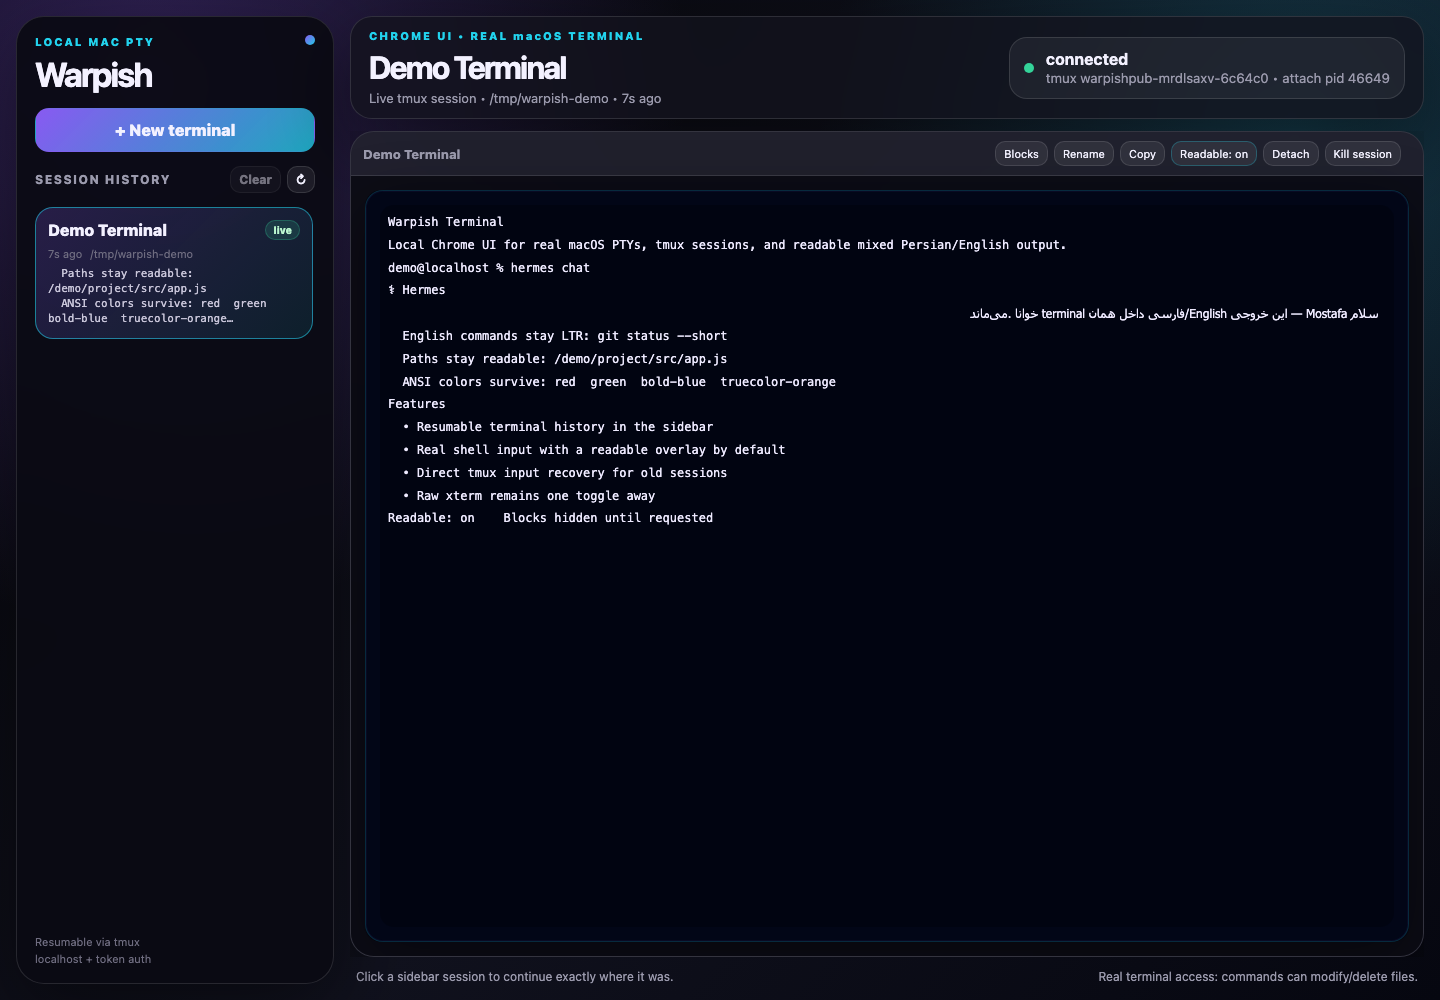
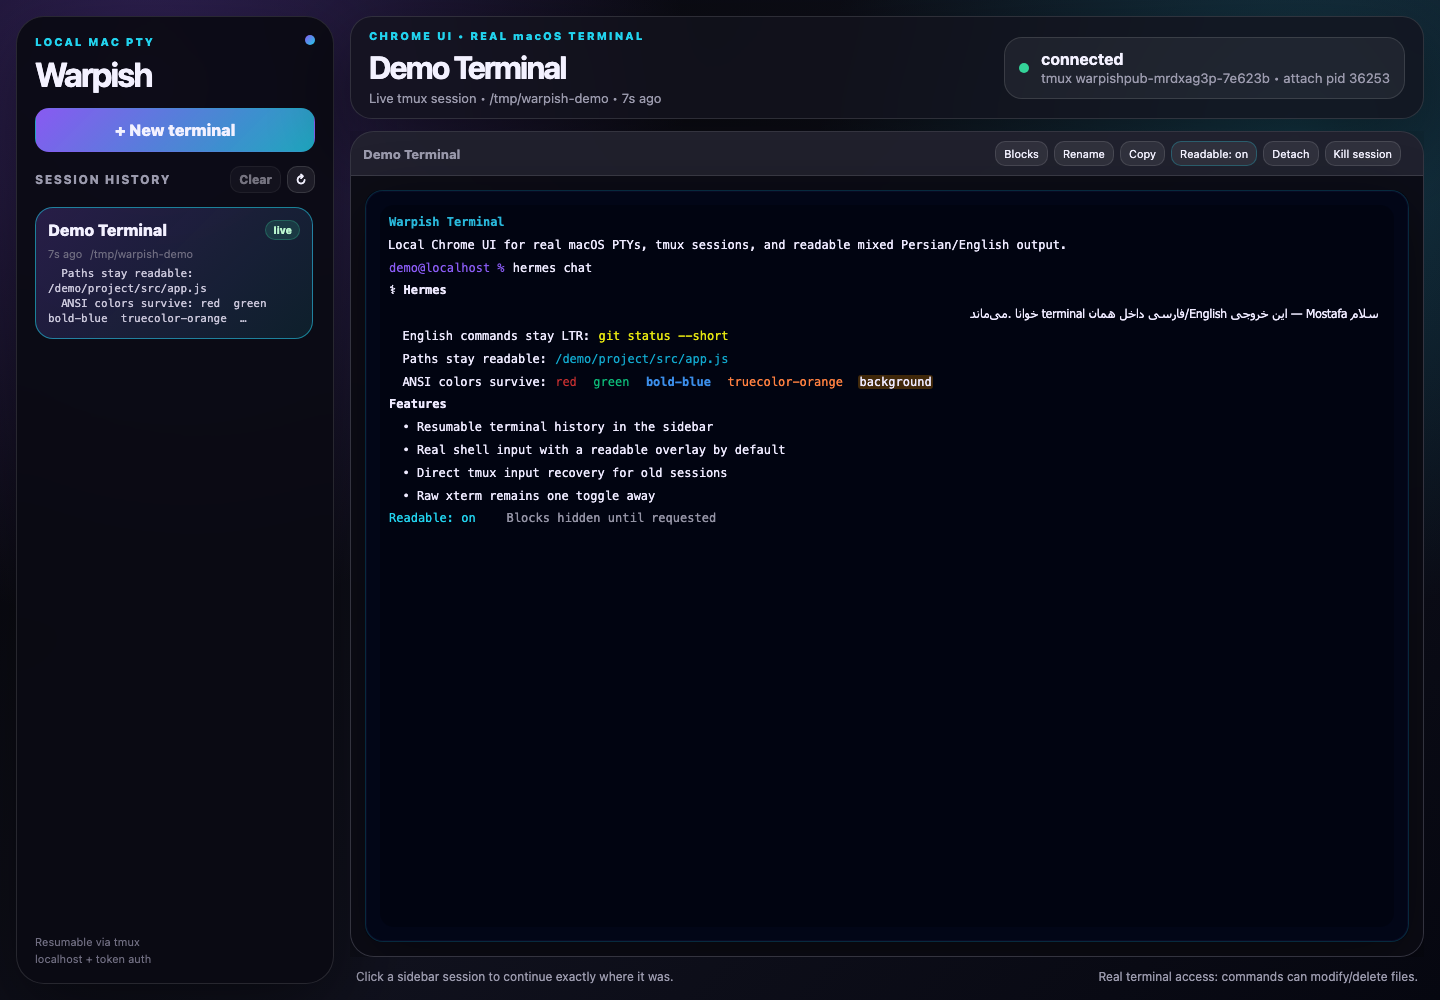
Preserve ANSI colors in captured reader output

diff --git a/public/app.js b/public/app.js
@@ -275,6 +275,118 @@ function applyTextStyle(element, style = {}) {
   if (style.underline) element.style.textDecoration = 'underline';
 }
 
+function cloneTextStyle(style = {}) {
+  return {
+    fg: style.fg || '',
+    bg: style.bg || '',
+    bold: Boolean(style.bold),
+    dim: Boolean(style.dim),
+    italic: Boolean(style.italic),
+    underline: Boolean(style.underline),
+    inverse: Boolean(style.inverse),
+  };
+}
+
+function resetTextStyle(style, scope = 'all') {
+  if (scope === 'all') {
+    style.fg = '';
+    style.bg = '';
+    style.bold = false;
+    style.dim = false;
+    style.italic = false;
+    style.underline = false;
+    style.inverse = false;
+  } else if (scope === 'fg') {
+    style.fg = '';
+  } else if (scope === 'bg') {
+    style.bg = '';
+  }
+  return style;
+}
+
+function ansiRgb(r, g, b) {
+  const clamp = (value) => Math.max(0, Math.min(255, Number(value) || 0));
+  return `rgb(${clamp(r)}, ${clamp(g)}, ${clamp(b)})`;
+}
+
+function applyAnsiSgr(style, rawCodes = '') {
+  const codes = rawCodes === ''
+    ? [0]
+    : rawCodes.split(';').filter((part) => part.length).map((part) => Number(part));
+  if (!codes.length) codes.push(0);
+  for (let index = 0; index < codes.length; index += 1) {
+    const code = Number.isFinite(codes[index]) ? codes[index] : 0;
+    if (code === 0) resetTextStyle(style);
+    else if (code === 1) style.bold = true;
+    else if (code === 2) style.dim = true;
+    else if (code === 3) style.italic = true;
+    else if (code === 4) style.underline = true;
+    else if (code === 7) style.inverse = true;
+    else if (code === 22) { style.bold = false; style.dim = false; }
+    else if (code === 23) style.italic = false;
+    else if (code === 24) style.underline = false;
+    else if (code === 27) style.inverse = false;
+    else if (code === 39) resetTextStyle(style, 'fg');
+    else if (code === 49) resetTextStyle(style, 'bg');
+    else if (code >= 30 && code <= 37) style.fg = xtermPaletteColor(code - 30, style.bold);
+    else if (code >= 90 && code <= 97) style.fg = xtermPaletteColor(code - 90 + 8, style.bold);
+    else if (code >= 40 && code <= 47) style.bg = xtermPaletteColor(code - 40);
+    else if (code >= 100 && code <= 107) style.bg = xtermPaletteColor(code - 100 + 8);
+    else if (code === 38 || code === 48) {
+      const target = code === 38 ? 'fg' : 'bg';
+      const mode = codes[index + 1];
+      if (mode === 2 && codes.length >= index + 5) {
+        style[target] = ansiRgb(codes[index + 2], codes[index + 3], codes[index + 4]);
+        index += 4;
+      } else if (mode === 5 && codes.length >= index + 3) {
+        style[target] = xtermPaletteColor(codes[index + 2], style.bold);
+        index += 2;
+      }
+    }
+  }
+  return style;
+}
+
+function trimStyledEntryEnd(entry) {
+  const text = String(entry?.text || '').trimEnd();
+  const segments = entry?.segments?.length ? sliceStyledSegments(entry.segments, 0, text.length) : [];
+  return { text, segments };
+}
+
+function parseAnsiCaptureEntries(text = '') {
+  const entries = [];
+  let entry = { text: '', segments: [] };
+  const style = resetTextStyle({});
+  const pushEntry = () => {
+    entries.push(trimStyledEntryEnd(entry));
+    entry = { text: '', segments: [] };
+  };
+  const appendText = (value = '') => {
+    if (!value) return;
+    const clean = String(value).replace(/\x1b\[[0-?]*[ -/]*[@-~]/g, '');
+    const parts = clean.split('\n');
+    parts.forEach((part, index) => {
+      if (index > 0) pushEntry();
+      if (!part) return;
+      entry.text += part;
+      mergeStyledSegment(entry.segments, part, cloneTextStyle(style));
+    });
+  };
+  const sgrPattern = /\x1b\[([0-9;]*)m/g;
+  let cursor = 0;
+  let match;
+  while ((match = sgrPattern.exec(String(text))) !== null) {
+    appendText(String(text).slice(cursor, match.index));
+    applyAnsiSgr(style, match[1]);
+    cursor = sgrPattern.lastIndex;
+  }
+  appendText(String(text).slice(cursor));
+  pushEntry();
+  return entries
+    .map(trimStyledEntryEnd)
+    .filter((item) => item.text.trim().length > 0);
+}
+
 function mergeStyledSegment(segments, text, style) {
   if (!text) return;
   const normalizedStyle = hasVisibleTextStyle(style) ? style : null;
@@ -381,10 +493,17 @@ function isTerminalAlternateBuffer() {
 }
 
 function isSparseReadableEntries(entries = []) {
-  if (!entries.length) return true;
-  const nonEmpty = entries.map((entry) => String(entry.text || '').trim()).filter(Boolean);
-  if (!nonEmpty.length) return true;
-  return nonEmpty.length <= 2 && nonEmpty.every((line) => /^(?:<[^>]+>|~|[│╭╰╮╯─\s])+$/u.test(line));
+  const visible = entries.map((entry) => String(entry?.text || '').trim()).filter(Boolean);
+  if (!visible.length) return true;
+  return visible.length <= 2 && visible.every((line) => /^(?:<[^>]+>|~|[│╭╰╮╯─\s]|\[[A-Z]+\])+$/u.test(line));
+}
+
+function entriesHaveVisibleText(entries = []) {
+  return entries.some((entry) => String(entry?.text || '').trim().length > 0);
+}
+
+function entriesHaveVisibleStyle(entries = []) {
+  return entries.some((entry) => Array.isArray(entry?.segments) && entry.segments.some((segment) => hasVisibleTextStyle(segment.style)));
 }
 
 function isBidiReaderNearBottom() {
@@ -492,9 +611,9 @@ function scheduleBidiReaderUpdate({ immediate = false } = {}) {
   bidiReaderUpdateTimer = window.setTimeout(() => requestAnimationFrame(flushBidiReaderUpdate), delay);
 }
 
-async function refreshBidiReaderFromCapture({ keepScroll = false } = {}) {
+async function refreshBidiReaderFromCapture({ keepScroll = false, preferCapture = false } = {}) {
   if (bidiReaderCaptureRefreshPending) {
-    if (lastCapturedReaderEntries.length) renderBidiReader(lastCapturedReaderEntries, { keepScroll });
+    if (preferCapture && lastCapturedReaderEntries.length) renderBidiReader(lastCapturedReaderEntries, { keepScroll });
     return;
   }
   if (!bidiReaderEnabled || !currentSessionId) {
@@ -504,20 +623,32 @@ async function refreshBidiReaderFromCapture({ keepScroll = false } = {}) {
   bidiReaderCaptureRefreshPending = true;
   lastBidiReaderCaptureAt = performance.now();
   try {
-    const payload = await api(`/api/sessions/${currentSessionId}/capture?lines=1200`);
-    const entries = String(payload.text || '')
-      .split('\n')
-      .map((line) => ({ text: line.trimEnd() }))
-      .filter((entry) => entry.text.trim().length > 0)
+    const payload = await api(`/api/sessions/${currentSessionId}/capture?lines=1200&ansi=1`);
+    const captureEntries = parseAnsiCaptureEntries(payload.text || '')
       .slice(-BIDI_READER_MAX_LINES);
-    if (entries.length) lastCapturedReaderEntries = entries;
+    if (captureEntries.length) lastCapturedReaderEntries = captureEntries;
+
     const xtermEntries = getReadableTerminalEntries();
-    const fallbackEntries = lastCapturedReaderEntries.length && isTerminalAlternateBuffer() && isSparseReadableEntries(xtermEntries)
+    const xtermHasText = entriesHaveVisibleText(xtermEntries);
+    const xtermIsSparse = isSparseReadableEntries(xtermEntries);
+    const shouldUseCapture = Boolean(
+      captureEntries.length && (
+        preferCapture
+        || !xtermHasText
+        || (isTerminalAlternateBuffer() && xtermIsSparse)
+      )
+    );
+
+    const renderEntries = shouldUseCapture
+      ? captureEntries
+      : (xtermHasText ? xtermEntries : captureEntries);
+    renderBidiReader(renderEntries, { force: true, keepScroll });
+  } catch {
+    const xtermEntries = getReadableTerminalEntries();
+    const fallbackEntries = lastCapturedReaderEntries.length && (preferCapture || isTerminalAlternateBuffer() && isSparseReadableEntries(xtermEntries))
       ? lastCapturedReaderEntries
       : xtermEntries;
-    renderBidiReader(entries.length ? entries : fallbackEntries, { force: true, keepScroll });
-  } catch {
-    renderBidiReader(lastCapturedReaderEntries.length ? lastCapturedReaderEntries : getReadableTerminalEntries(), { force: true, keepScroll });
+    renderBidiReader(fallbackEntries, { force: true, keepScroll });
   } finally {
     bidiReaderCaptureRefreshPending = false;
   }
@@ -1195,7 +1326,7 @@ terminalEl.addEventListener('wheel', (event) => {
       localStorage.setItem('warpish_readable_terminal_v1', 'on');
       applyBidiMode();
     } else {
-      refreshBidiReaderFromCapture().catch(() => renderBidiReader());
+      refreshBidiReaderFromCapture({ keepScroll: true, preferCapture: true }).catch(() => renderBidiReader());
     }
   }
   event.preventDefault();

diff --git a/server.js b/server.js
@@ -482,10 +482,12 @@ function capturePreview(id, lines = 28) {
   }
 }
 
-function capturePaneText(id, { lines = 600, alternate = false } = {}) {
-  const args = ['capture-pane', '-p', '-J', '-t', id];
-  if (alternate) args.splice(1, 0, '-a');
+function capturePaneText(id, { lines = 600, alternate = false, escape = false } = {}) {
+  const args = ['capture-pane', '-p', '-J'];
+  if (escape) args.push('-e');
+  if (alternate) args.push('-a');
   else args.push('-S', `-${Math.max(20, Math.min(Number(lines) || 600, 5000))}`);
+  args.push('-t', id);
   try {
     return runTmux(args)
       .split('\n')
@@ -806,10 +808,11 @@ app.get('/api/sessions/:id/capture', (req, res) => {
   const { id } = req.params;
   if (!isValidSessionId(id)) return res.status(400).json({ error: 'invalid session id' });
   const lines = clampNumber(req.query.lines, 600, 20, 5000);
-  const normal = capturePaneText(id, { lines });
-  const alternate = capturePaneText(id, { alternate: true });
+  const escape = req.query.ansi === '1' || req.query.escape === '1';
+  const normal = capturePaneText(id, { lines, escape });
+  const alternate = capturePaneText(id, { alternate: true, escape });
   const text = alternate.trim() ? alternate : normal;
-  res.json({ text, normal, alternate, usingAlternate: Boolean(alternate.trim()) });
+  res.json({ text, normal, alternate, usingAlternate: Boolean(alternate.trim()), ansi: escape });
 });
 
 app.patch('/api/sessions/:id', (req, res) => {

diff --git a/scripts/smoke.js b/scripts/smoke.js
@@ -175,6 +175,11 @@ try {
     && appJs.includes('XTERM_COLOR_MODE_PALETTE')
     && appJs.includes('function getLineStyledSegments(line, text)')
     && appJs.includes('function applyTextStyle(element, style = {})')
+    && appJs.includes('function parseAnsiCaptureEntries(text =')
+    && appJs.includes('function applyAnsiSgr(style, rawCodes =')
+    && appJs.includes('capture?lines=1200&ansi=1')
+    && serverJs.includes('escape = req.query.ansi')
+    && serverJs.includes("args.push('-e')")
     && serverJs.includes('function writeTmuxInput(sessionId, data)')
     && serverJs.includes("['\\x1b[A', 'Up']")
     && !appJs.includes('warpish_composer_open')
@@ -195,6 +200,10 @@ try {
     && appJs.includes('function setBidiReaderHasContent(hasContent)')
     && appJs.includes('lastCapturedReaderEntries')
     && appJs.includes('function refreshReadableFromTmuxSoon')
+    && appJs.includes('preferCapture = false')
+    && appJs.includes('preferCapture\n        || !xtermHasText')
+    && appJs.includes('refreshBidiReaderFromCapture({ keepScroll: true, preferCapture: true })')
+    && !appJs.includes('renderBidiReader(entries.length ? entries : fallbackEntries')
     && appJs.includes('function splitPromptRtlSuffix(value =')
     && appJs.includes("segment.className = 'bidi-segment rtl'")
     && appJs.includes('function appendBidiRunWithBoundarySpace(element, text, dir)')

diff --git a/README.md b/README.md
@@ -11,7 +11,7 @@ What it does:
 - Clear stopped history from the sidebar without killing any live `tmux` sessions.
 - Uses real macOS PTYs and `tmux`, so browser reloads/switches do not kill the shell.
 - Adds Warp-style command blocks for new sessions; the block panel is hidden by default and opens only when you ask for it.
-- Uses a terminal-native layout: normal xterm input goes to the real shell, while input echo and output are shown through a default readable terminal mask. When an LTR shell prompt is followed by Persian/Arabic input, the prompt stays LTR and the typed suffix becomes a compact Word-style RTL segment; English commands, paths, flags, and code stay isolated LTR islands. The readable surface keeps typing focus across old-session reattaches, sends readable-mode keystrokes directly to the backing tmux pane when xterm attach input is stale, handles wheel scrolling through tmux-captured history instead of shell history, preserves live xterm ANSI/truecolor styles, dims inline suggestions after the cursor, keeps tmux-captured full-screen/alternate-screen apps such as Hermes visible instead of showing an empty waiting overlay, and throttles redraws to avoid streaming flicker. You can toggle back to raw xterm with `Readable: off` for edge-case TUIs.
+- Uses a terminal-native layout: normal xterm input goes to the real shell, while input echo and output are shown through a default readable terminal mask. When an LTR shell prompt is followed by Persian/Arabic input, the prompt stays LTR and the typed suffix becomes a compact Word-style RTL segment; English commands, paths, flags, and code stay isolated LTR islands. The readable surface keeps typing focus across old-session reattaches, sends readable-mode keystrokes directly to the backing tmux pane when xterm attach input is stale, handles wheel scrolling through tmux-captured history instead of shell history, preserves live xterm and tmux-captured ANSI/truecolor styles, dims inline suggestions after the cursor, keeps tmux-captured full-screen/alternate-screen apps such as Hermes visible instead of showing an empty waiting overlay, and throttles redraws to avoid streaming flicker. You can toggle back to raw xterm with `Readable: off` for edge-case TUIs.
 - Binds to `127.0.0.1` and requires a random token stored in `.auth-token`.
 
 Requirements:

diff --git a/codex.md b/codex.md
@@ -124,7 +124,7 @@ zsh -n scripts/warpish-shell-integration.zsh
 - Cmd/Ctrl+K should focus the terminal, not open a separate command mask.
 - Readable overlay/focus/scroll regression guard: the overlay must not steal typing. Keep explicit focus handlers on the terminal surface/card so that after toolbar blur or old-session reattach, clicking the terminal/readable area focuses xterm. When readable mode is on, bridge keydown/paste from the readable surface directly to the backing tmux pane (`directTmux`) so old attach-session clients cannot swallow input; for stale prompt-only shell rows, a conservative `C-g C-u` recovery before the first printable key is allowed. Wheel over the readable surface should scroll the readable/tmux-captured history and stop propagation so it never turns into shell history/navigation input.
 - Do not use tmux/xterm alternate-screen state alone as a signal for input mode because `tmux attach` itself may use alternate screen.
-- Keep the readable terminal mask available as the default surface/toggle; it mirrors recent xterm buffer lines or tmux-captured pane text into normal HTML, splits LTR prompts from RTL suffix segments, isolates English/code/path runs as LTR, preserves live xterm ANSI/palette/truecolor foreground/background/bold styling, dims inline suggestion text after the cursor, and throttles/cache-skips fast redraws so Hermes streaming output does not flicker. If a full-screen/alternate-screen terminal app leaves xterm scrollback at `baseY=0` or exposes only sparse/control-key artifacts, prefer tmux-captured reader content and do not hide raw xterm unless the reader has real content (`bidi-reader-has-content`); wheel should refresh/update this tmux-backed readable layer rather than trying to split the terminal layout or sending history/navigation input to the shell.
+- Keep the readable terminal mask available as the default surface/toggle; it mirrors recent xterm buffer lines or tmux-captured pane text into normal HTML, splits LTR prompts from RTL suffix segments, isolates English/code/path runs as LTR, preserves live xterm and ANSI-preserving tmux-captured foreground/background/bold styling, dims inline suggestion text after the cursor, and throttles/cache-skips fast redraws so Hermes streaming output does not flicker. If a full-screen/alternate-screen terminal app leaves xterm scrollback at `baseY=0` or exposes only sparse/control-key artifacts, prefer tmux-captured reader content and do not hide raw xterm unless the reader has real content (`bidi-reader-has-content`); wheel should refresh/update this tmux-backed readable layer rather than trying to split the terminal layout or sending history/navigation input to the shell.
 - Preserve bidi styling on sidebar previews, block commands, and block outputs.
 - Do not rely on xterm/tmux raw terminal rendering alone for Persian/Hermes output; terminal grids and redraws are not reliable Unicode bidi boundaries.
 - If changing xterm rendering or terminal layout, verify prompt + `سلام عزیزم koja بودی` against Word-style behavior: the prompt remains LTR; the suffix is one compact `dir=rtl` segment; visual RTL reading order is `سلام` → `عزیزم` → `koja` → `بودی`; and `koja`/paths/flags stay readable LTR internally.

diff --git a/context.md b/context.md
@@ -97,7 +97,7 @@ This avoids block output being polluted by unrelated redraws or repeated termina
 The primary product goal is a readable terminal, so the default path keeps input in the real xterm/PTY path while rendering input echo and output through a readable terminal mask instead of splitting commands into a separate input mask/composer. The app uses a layered approach:
 
 - normal xterm typing goes directly to the PTY/shell prompt, so ordinary commands such as `hermes chat` execute where users expect;
-- the readable terminal mask is on by default, covers the terminal surface, re-renders recent xterm/tmux-captured lines as normal HTML, splits an LTR shell prompt from a following RTL input suffix, renders that suffix as a compact Word-style `dir=rtl` segment, wraps English commands, paths, flags, and code as isolated `dir=ltr` islands, preserves live xterm ANSI/palette/truecolor foreground/background/bold styling in the readable mask, prefers tmux-captured content for alternate-screen/full-screen apps when the xterm buffer is sparse, never hides raw xterm behind a reader with only `Waiting for terminal output…`, dims shell suggestion text after the cursor, throttles/cache-skips fast redraws, and uses tmux capture for wheel scroll when xterm scrollback is unavailable;
+- the readable terminal mask is on by default, covers the terminal surface, re-renders recent xterm/tmux-captured lines as normal HTML, splits an LTR shell prompt from a following RTL input suffix, renders that suffix as a compact Word-style `dir=rtl` segment, wraps English commands, paths, flags, and code as isolated `dir=ltr` islands, preserves live xterm and ANSI-preserving tmux-captured foreground/background/bold styling in the readable mask, prefers tmux-captured content for alternate-screen/full-screen apps when the xterm buffer is sparse, never hides raw xterm behind a reader with only `Waiting for terminal output…`, dims shell suggestion text after the cursor, throttles/cache-skips fast redraws, and uses tmux capture for wheel scroll when xterm scrollback is unavailable;
 - the terminal owns the primary workspace height; command blocks are opt-in/collapsible so input/output are not visually split;
 - raw terminal rows and the xterm helper textarea still get `unicode-bidi: plaintext`/auto-direction styling as fallback;
 - command blocks and sidebar previews also use bidi plaintext styling and direction detection.